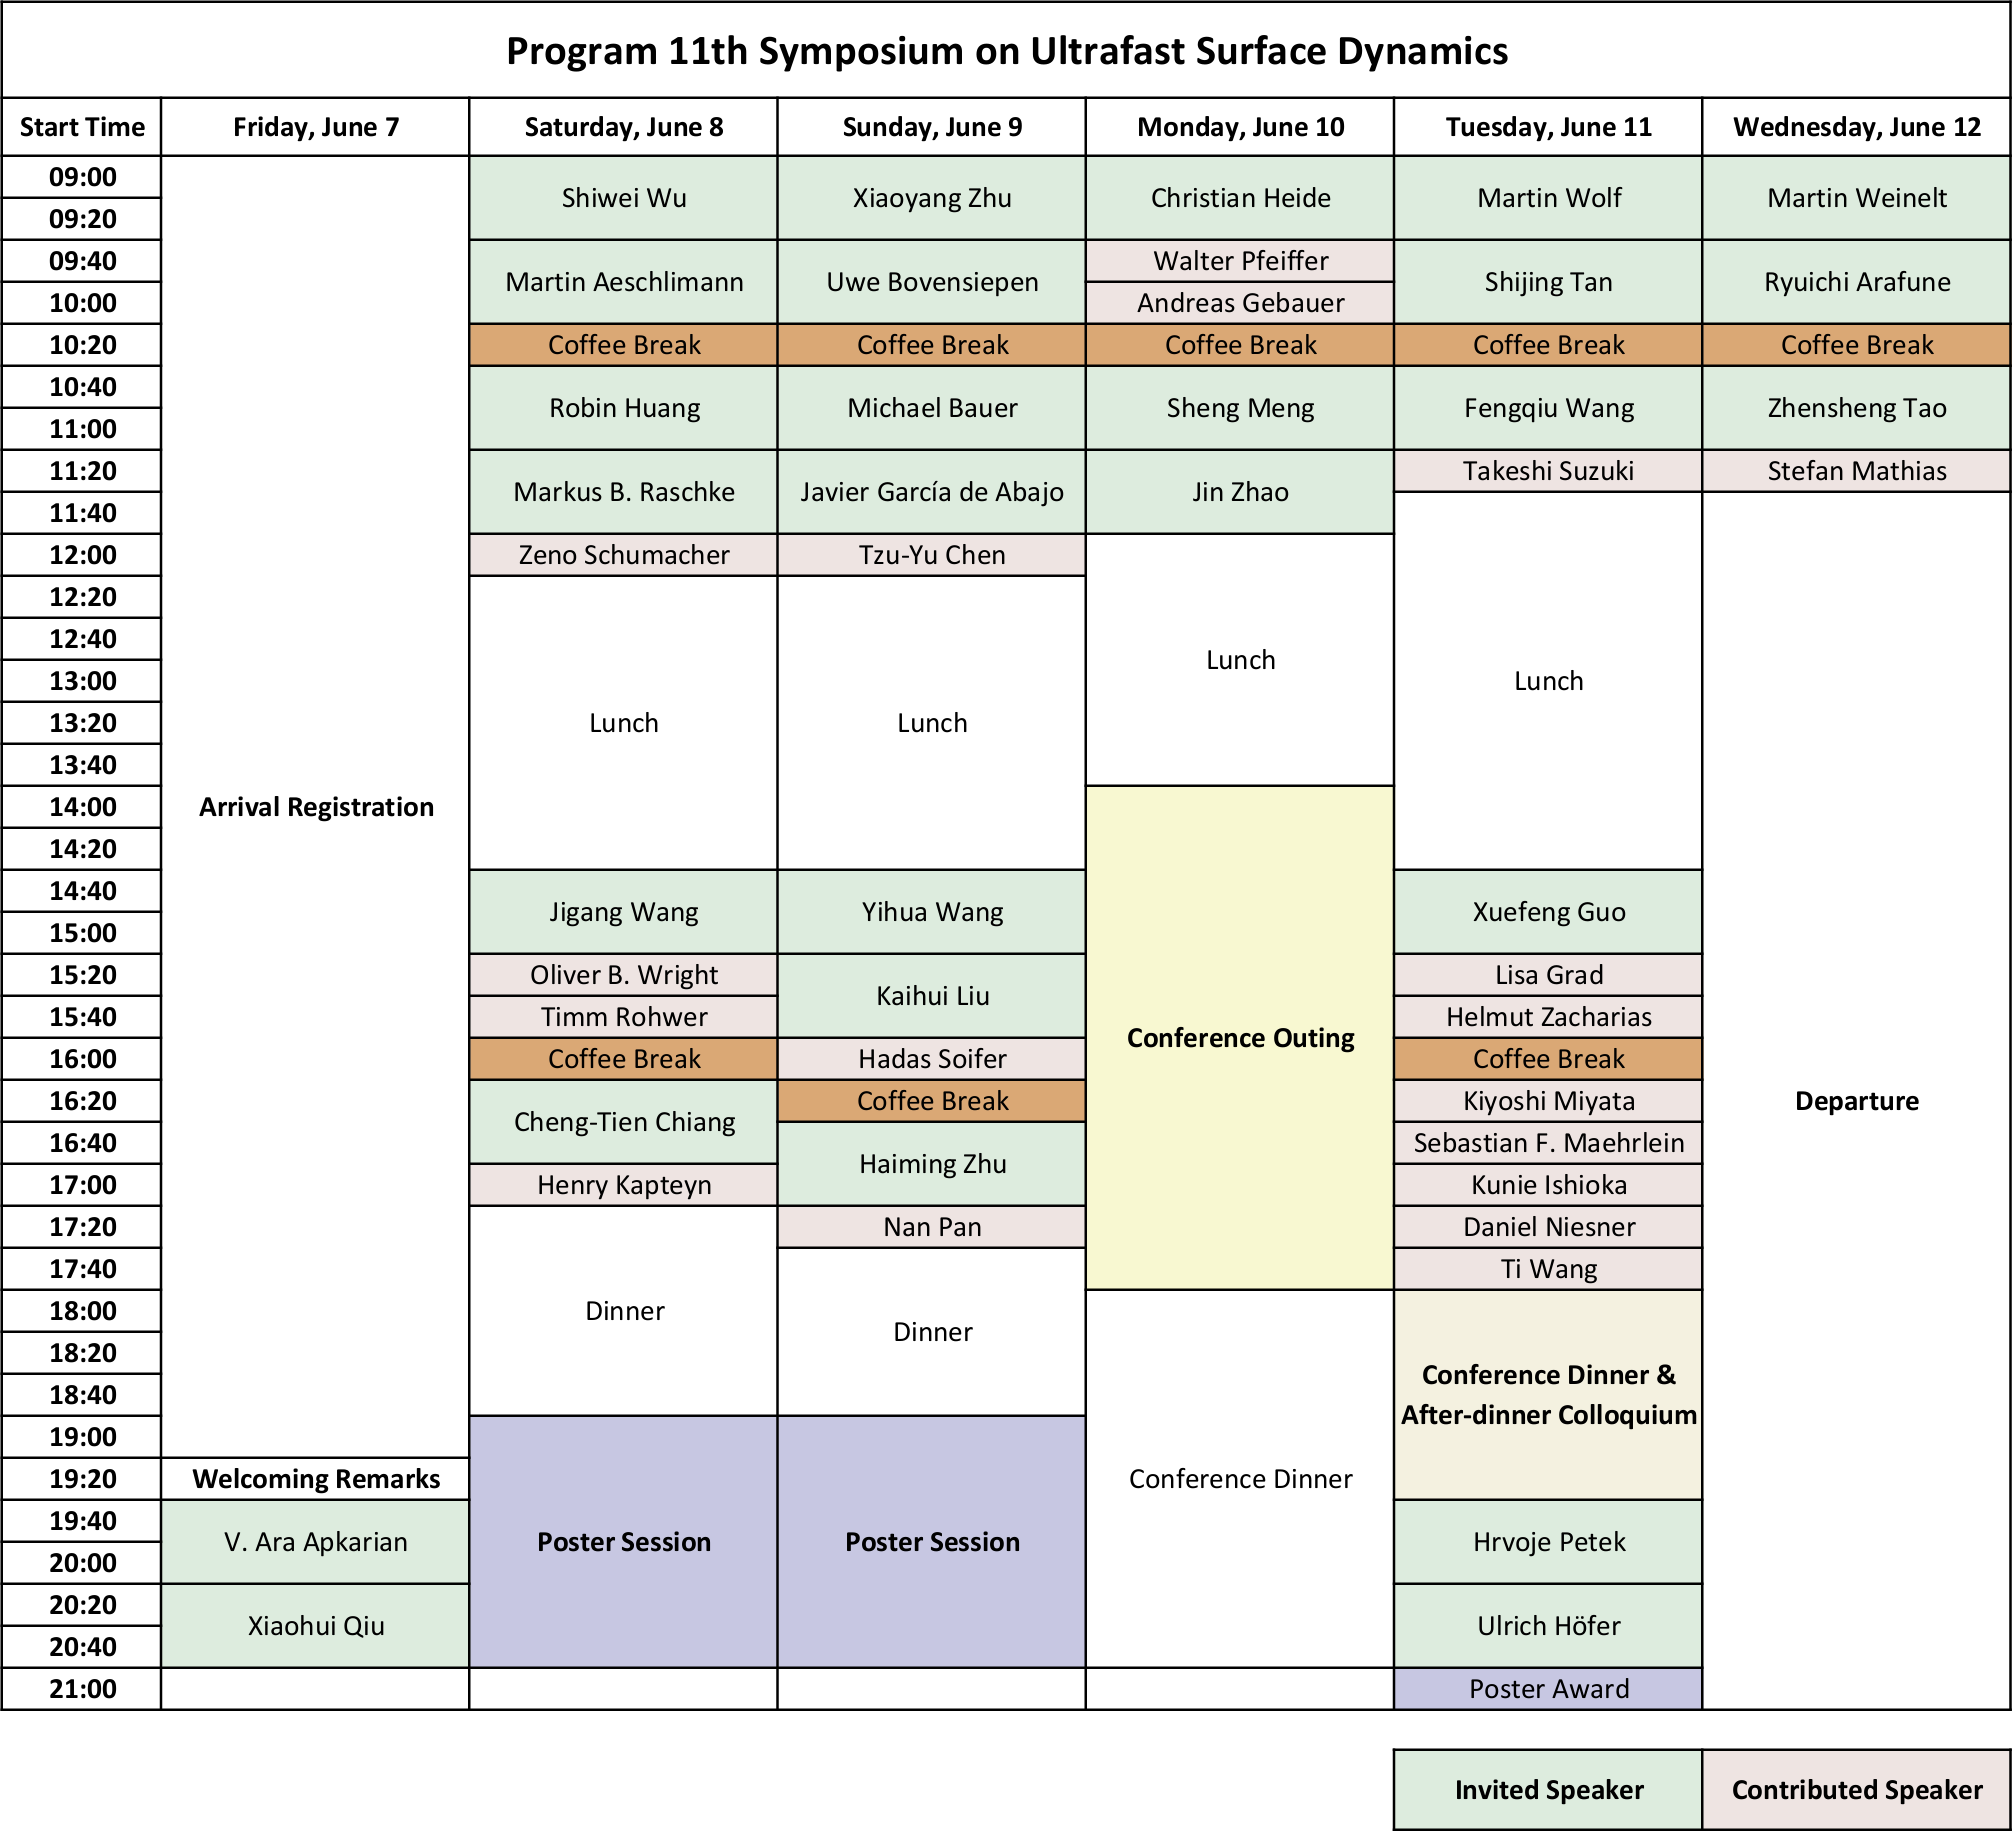
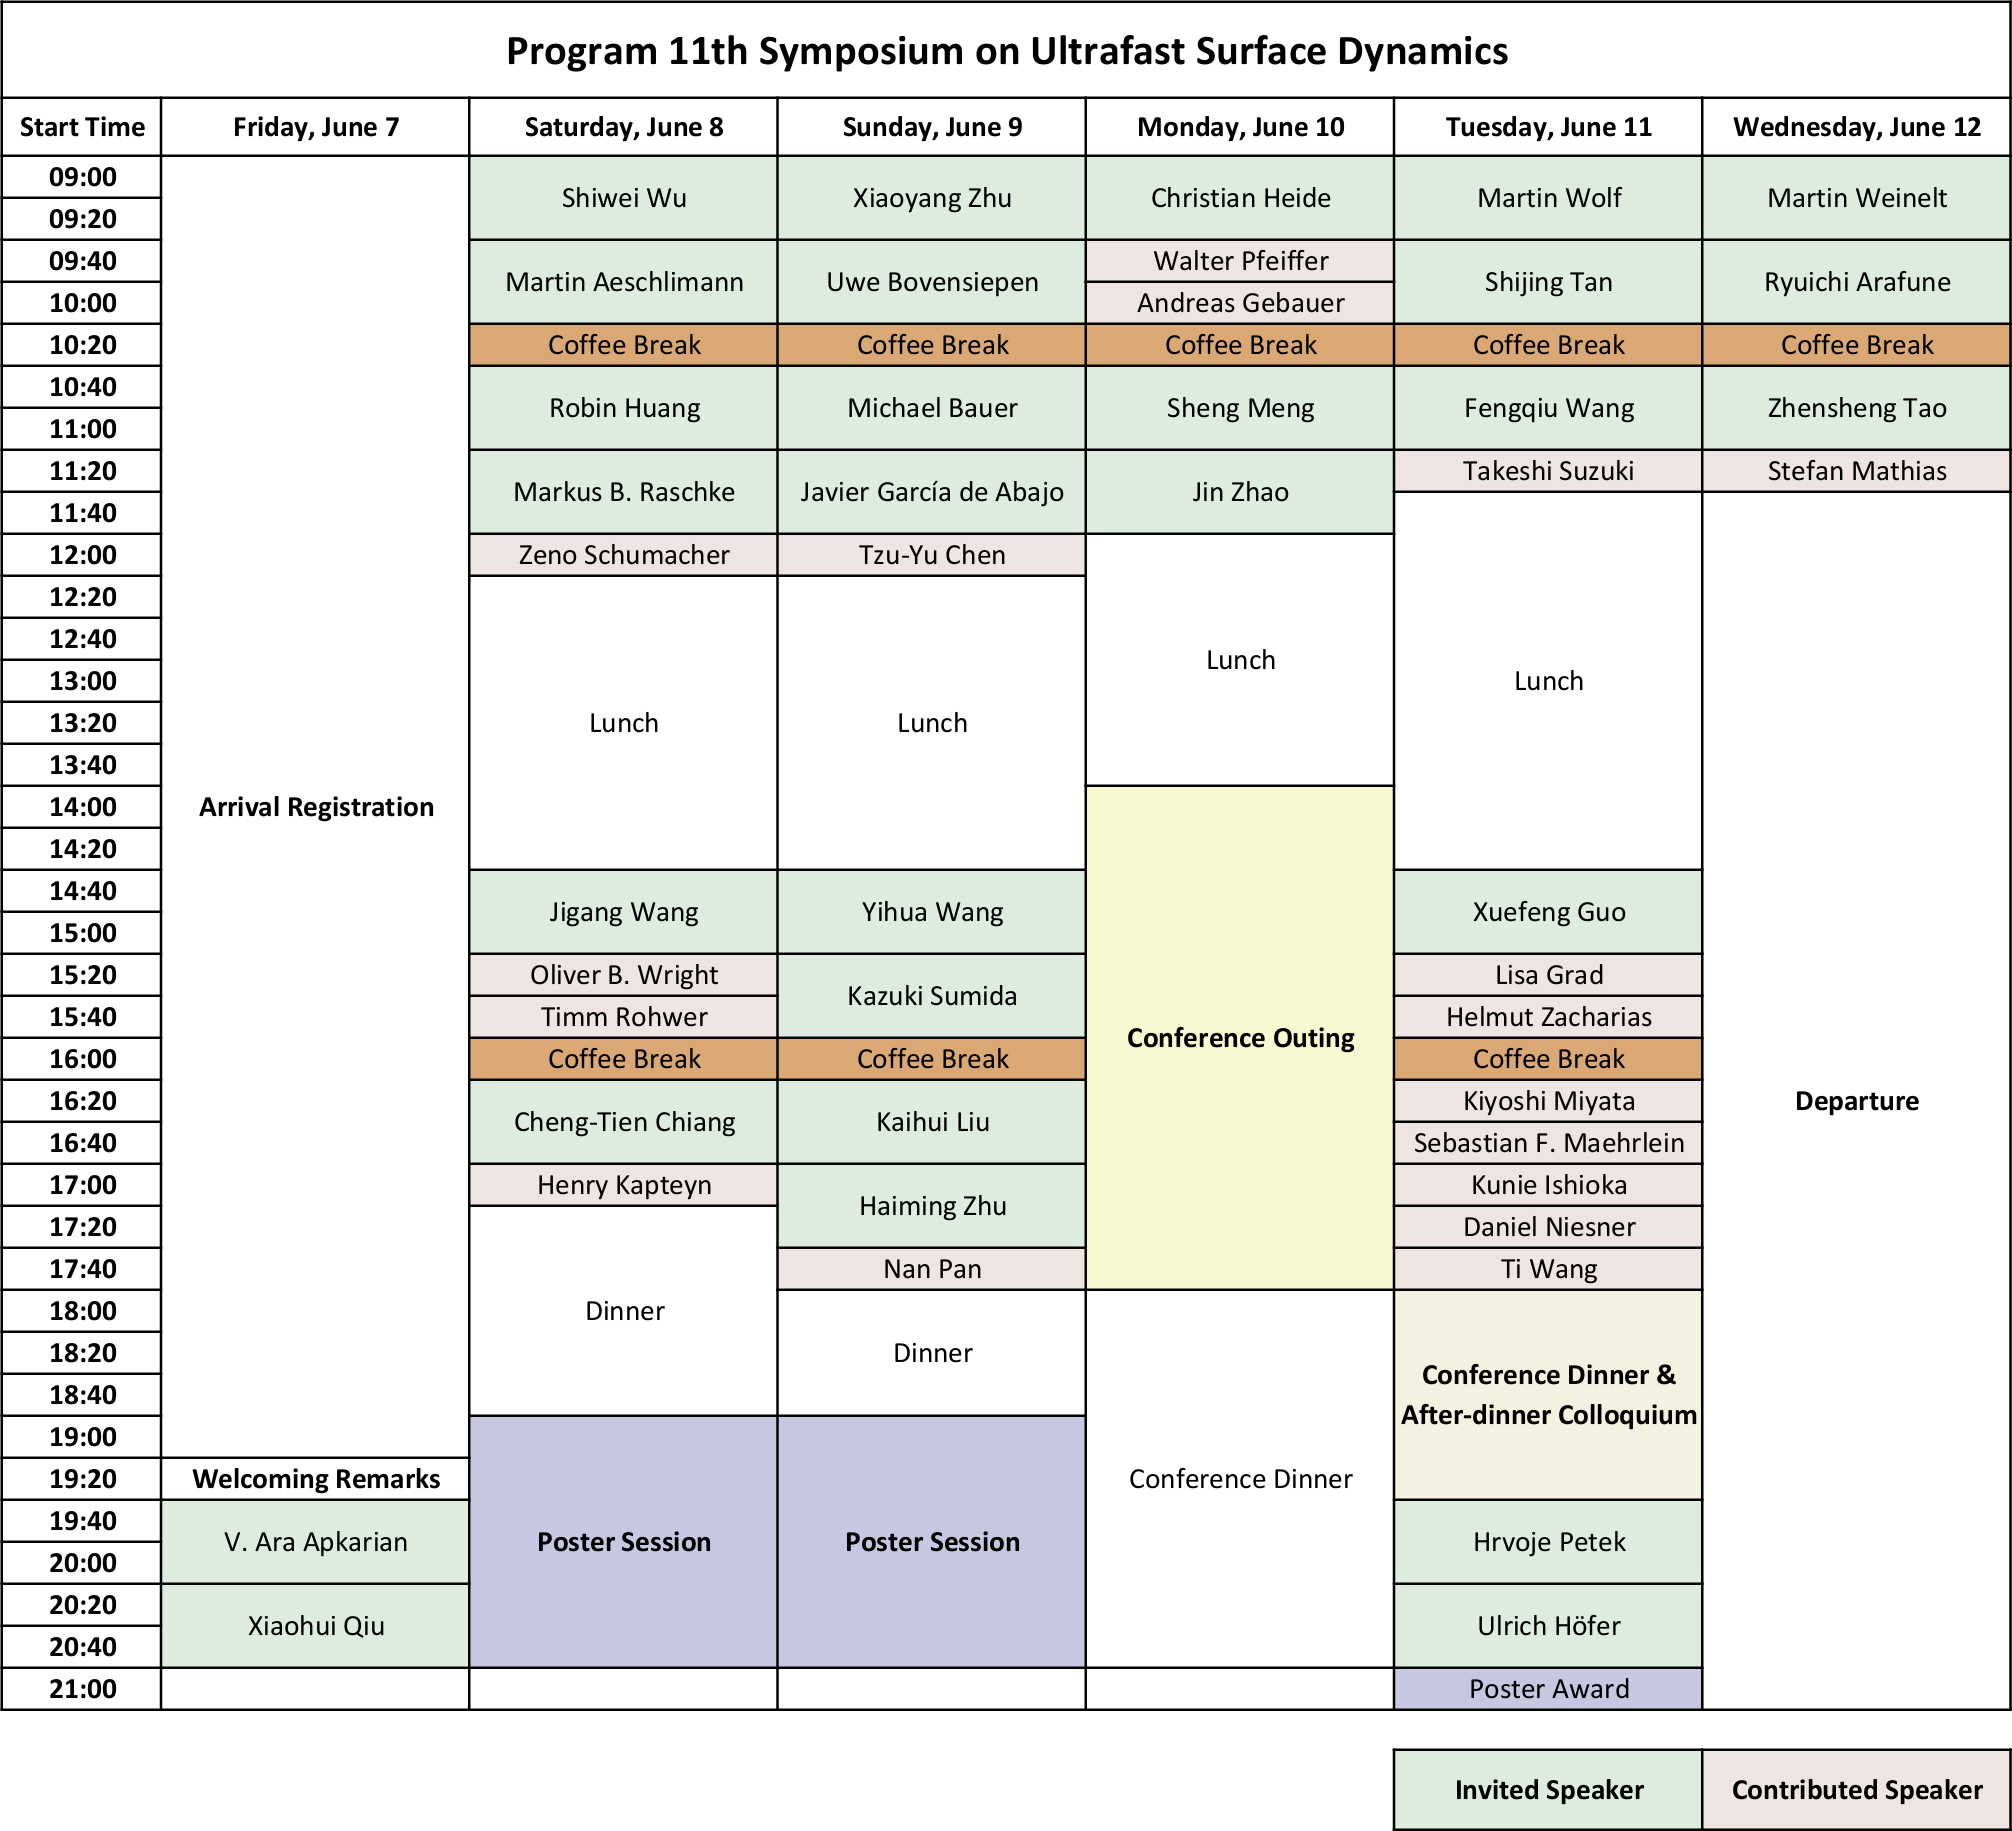
update inviated speakers and program

Changed region(s): [[0.3698, 0.5292, 0.5547, 0.7471]]

diff --git a/invited_speaker.html b/invited_speaker.html
@@ -220,6 +220,14 @@
                     </tr>
                     <tr>
                         <td>
+                            <a target="_blank" href="http://sourcedb.nanoctr.cas.cn/yw/rc/200906/t20090602_252685.html">
+                                Xiaohui Qiu
+                            </a>
+                        </td>
+                        <td>National Center for Nanoscience and Technology, China</td>
+                    </tr>
+                    <tr>
+                        <td>
                             <a target="_blank" href="http://nano-optics.colorado.edu/">
                                 Markus Raschke
                             </a>
